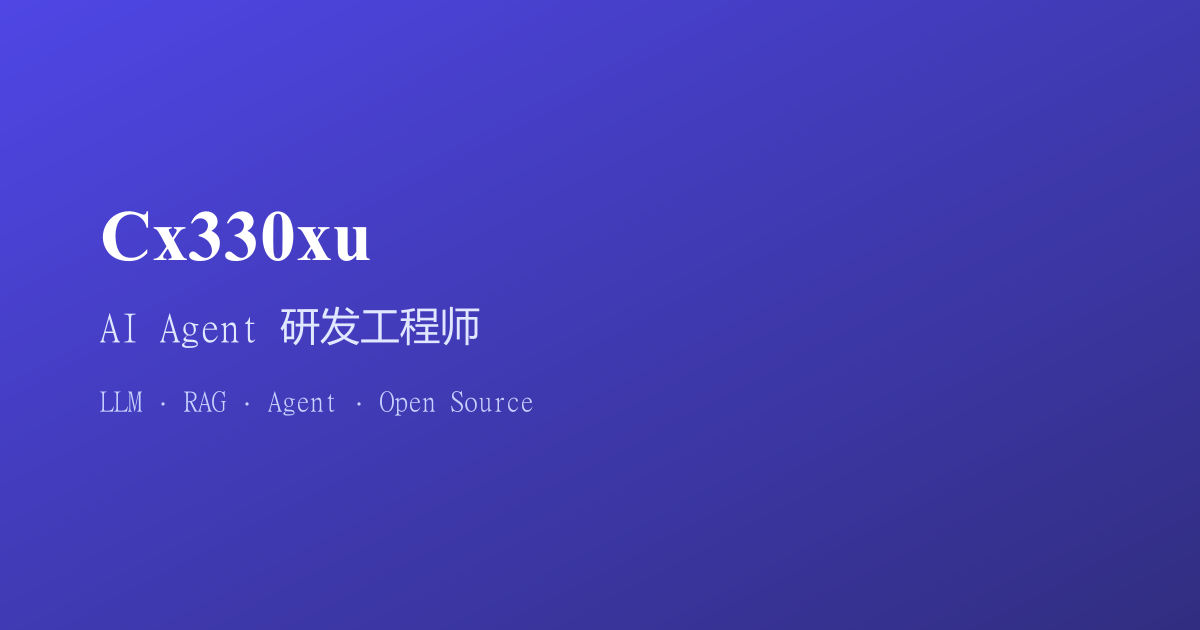
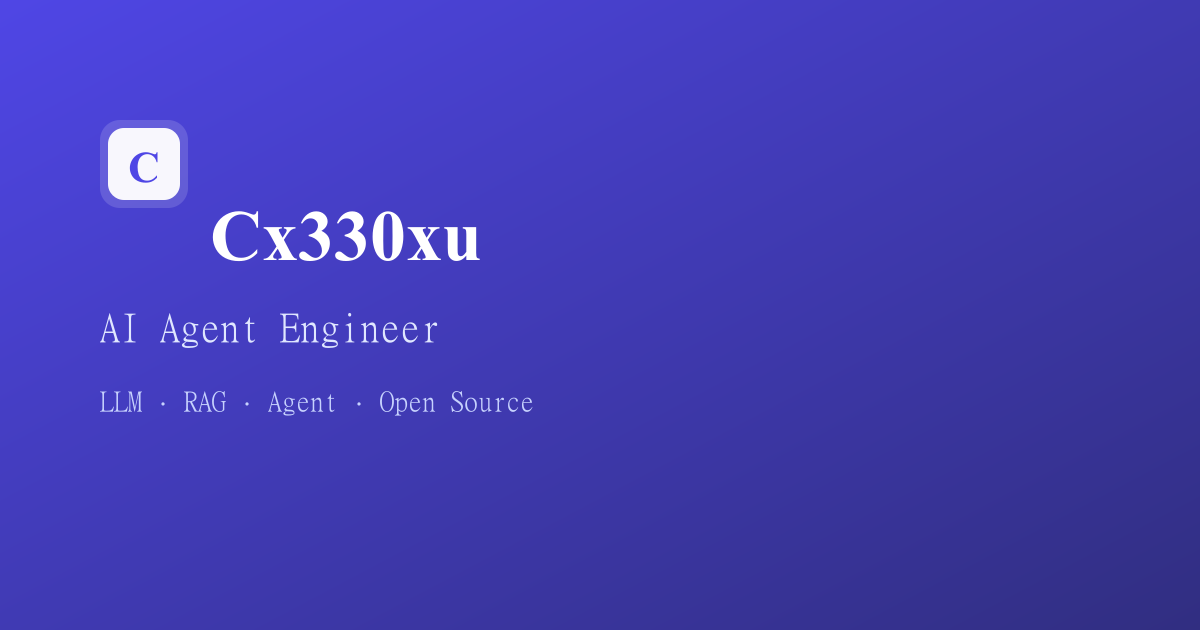
feat: search shortcut, hide low GitHub chart, refresh OG image
Add / key to open search, disable home heatmap when activity is low with sidebar GitHub link, and align OG card with favicon branding.

Changed region(s): [[0.0617, 0.181, 0.4008, 0.4222], [0.2158, 0.4825, 0.4008, 0.573]]

diff --git a/src/data/site.ts b/src/data/site.ts
@@ -28,6 +28,11 @@ export const profile = {
   ogImage: '/og-image.png',
 } as const;
 
+/** 首页 GitHub 贡献热力图（贡献较少时可关闭，About / 侧栏仍保留 GitHub 链接） */
+export const githubActivity = {
+  showOnHome: false,
+} as const;
+
 /** CSDN 渠道配置（更新文章数或同步策略时只改此处） */
 export const csdn = {
   url: 'https://blog.csdn.net/Xu_youyaxianshen?type=blog',

diff --git a/src/i18n/ui.ts b/src/i18n/ui.ts
@@ -11,6 +11,7 @@ export const ui = {
       about: '关于',
       now: '当前动态',
       search: '搜索',
+      searchShortcut: '搜索 (/)',
     },
     home: {
       viewProjects: '查看项目',
@@ -92,6 +93,7 @@ export const ui = {
       tryLabel: '试试这些关键词',
       typeFilterLabel: '按类型筛选',
       typeAll: '全部',
+      shortcutHint: '任意页面按 / 键可快速打开搜索',
       empty: '未找到相关内容，换个关键词或浏览下方栏目试试。',
       types: {
         blog: '博客',
@@ -150,6 +152,7 @@ export const ui = {
       about: 'About',
       now: 'Now',
       search: 'Search',
+      searchShortcut: 'Search (/)',
     },
     home: {
       viewProjects: 'View Projects',
@@ -231,6 +234,7 @@ export const ui = {
       tryLabel: 'Try these keywords',
       typeFilterLabel: 'Filter by type',
       typeAll: 'All',
+      shortcutHint: 'Press / on any page to open search',
       empty: 'No results found. Try another keyword or browse the sections below.',
       types: {
         blog: 'Blog',